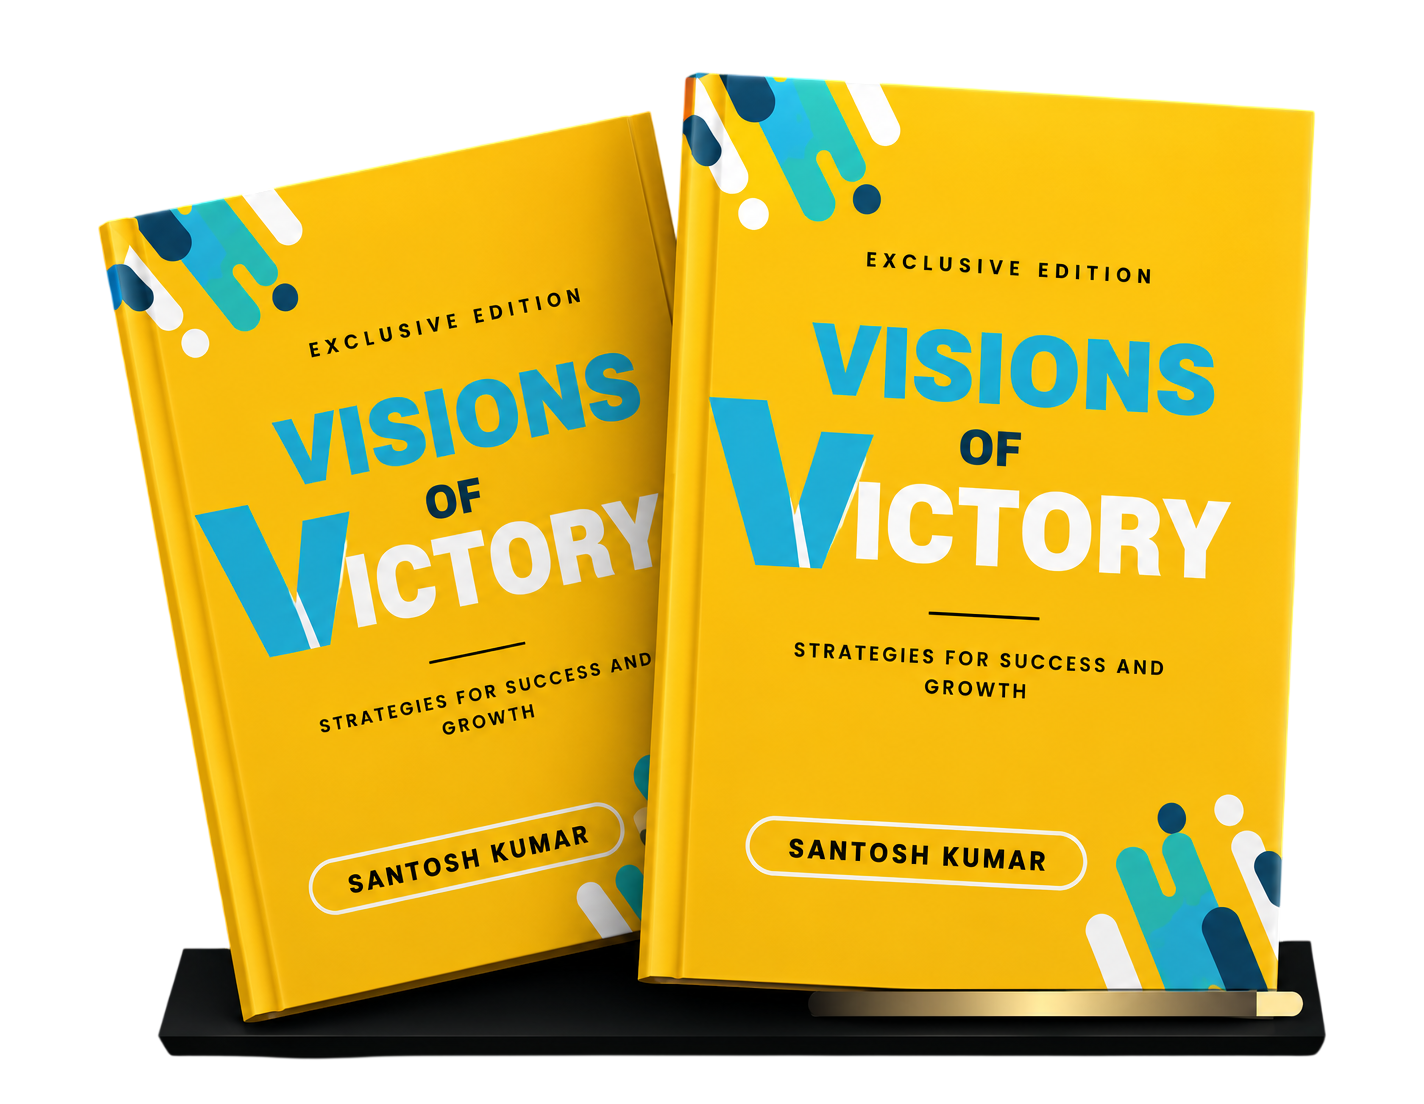
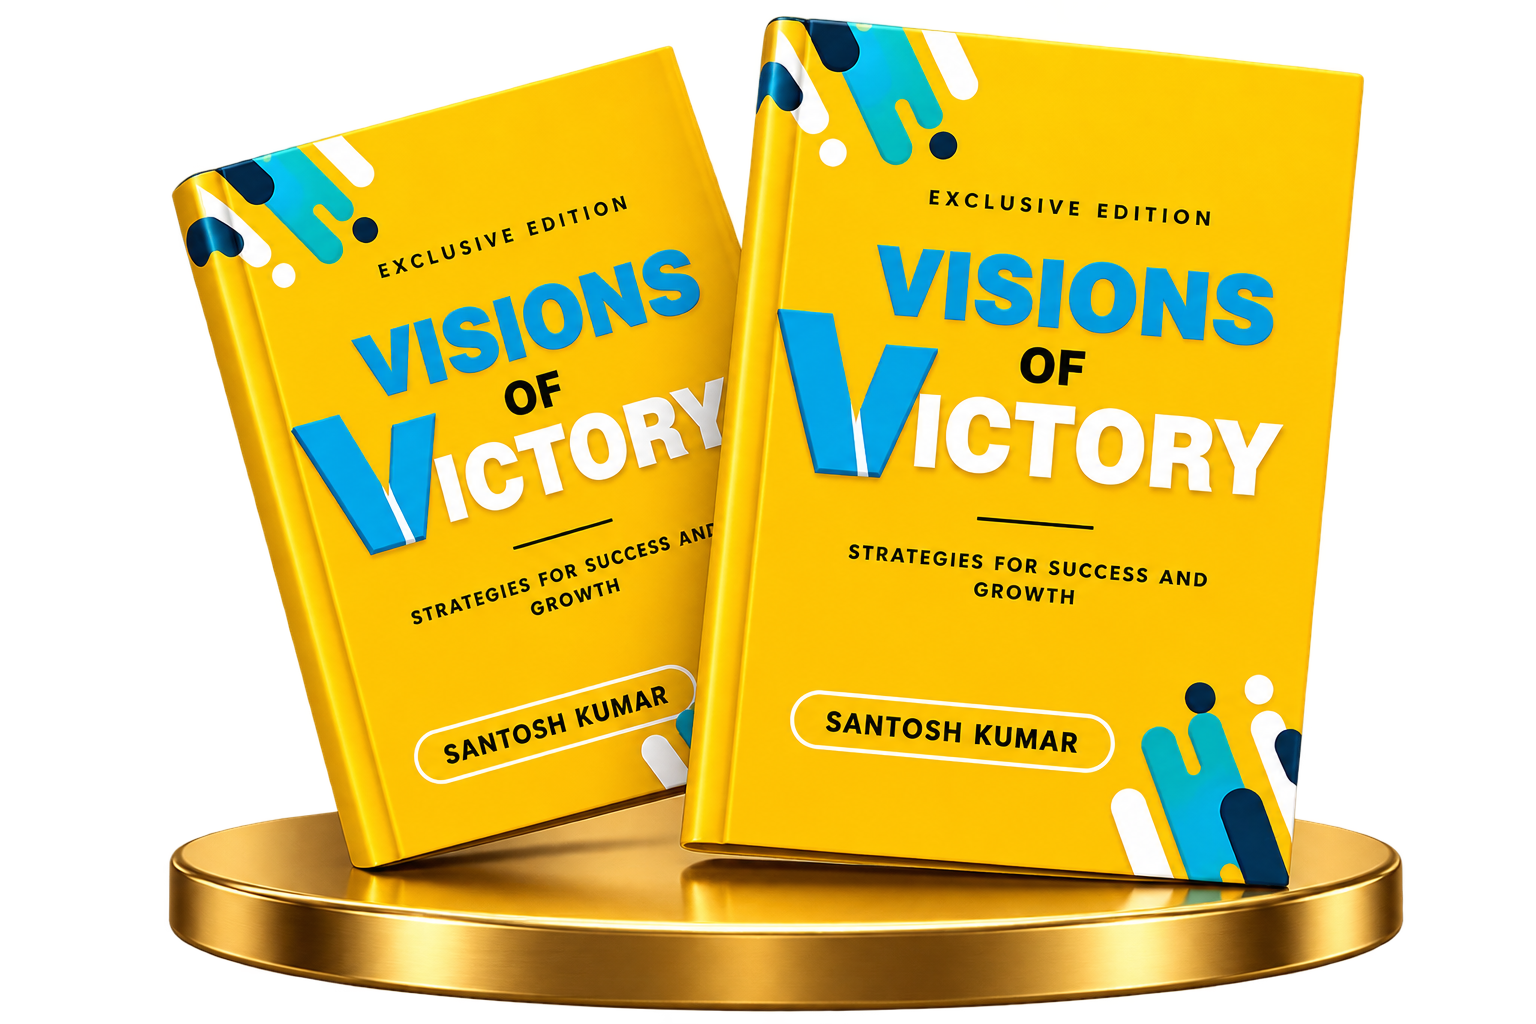
changing Hero section new images

diff --git a/components/Hero.tsx b/components/Hero.tsx
@@ -229,33 +229,35 @@ export default function Hero() {
           </div>
 
           {/* Slide Numbers / Indicator */}
-          <div className="pt-4 sm:pt-8 flex items-center gap-3 font-display">
-            <span className="text-[#f2eee3] text-lg sm:text-2xl font-bold tracking-wider">
+          <div className="pt-10 sm:pt-14 lg:pt-16 flex items-center gap-3 font-display relative z-20">
+            <span className="dark:text-[#f2eee3] text-[#18181b] text-lg sm:text-2xl font-bold tracking-wider transition-colors duration-300">
               {String(currentSlide + 1).padStart(2, "0")}
             </span>
-            <div className="w-12 sm:w-16 h-[2px] bg-[#d4b56a]/60 relative overflow-hidden">
+            <div className="w-12 sm:w-16 h-[2px] dark:bg-[#d4b56a]/40 bg-[#9333ea]/20 relative overflow-hidden rounded-full">
               <div
-                className="absolute inset-0 bg-[#d4b56a] transition-all duration-700"
+                className="absolute inset-0 dark:bg-[#d4b56a] bg-[#9333ea] transition-all duration-700"
                 style={{ width: `${((currentSlide + 1) / totalSlides) * 100}%` }}
               />
             </div>
-            <span className="text-[#9a9b94] text-base sm:text-xl">{String(totalSlides).padStart(2, "0")}</span>
+            <span className="dark:text-[#9a9b94] text-[#71717a] text-base sm:text-xl font-medium transition-colors duration-300">
+              {String(totalSlides).padStart(2, "0")}
+            </span>
           </div>
         </div>
 
         {/* ========================================================= */}
         {/* RIGHT 3D VISUAL AREA: Buttery Smooth Crossfade Stack */}
         {/* ========================================================= */}
-        <div className="w-full lg:w-[52%] relative flex items-center justify-center min-h-[300px] sm:min-h-[420px] lg:min-h-[500px]">
+        <div className="w-full lg:w-[52%] relative flex items-center justify-center min-h-[320px] sm:min-h-[420px] lg:min-h-[490px]">
           
-          <div className="relative w-full max-w-[480px] sm:max-w-[520px] lg:max-w-[560px] h-[280px] sm:h-[420px] lg:h-[480px] flex items-center justify-center">
+          <div className="relative w-full max-w-[480px] sm:max-w-[540px] lg:max-w-[600px] h-[300px] sm:h-[420px] lg:h-[480px] flex items-center justify-center">
             
             {/* Ambient Lighting (Dark Mode Only) */}
-            <div className="absolute inset-0 bg-[radial-gradient(circle_at_50%_48%,rgba(212,181,106,0.18),rgba(20,70,45,0.22)_42%,transparent_70%)] pointer-events-none blur-2xl dark:block hidden" />
-            <div className="absolute -bottom-4 w-4/5 h-16 bg-black/90 blur-2xl rounded-full pointer-events-none dark:block hidden" />
+            <div className="absolute inset-0 bg-[radial-gradient(circle_at_50%_50%,rgba(212,181,106,0.18),rgba(20,70,45,0.22)_45%,transparent_70%)] pointer-events-none blur-3xl dark:block hidden" />
+            <div className="absolute -bottom-5 w-4/5 h-16 bg-black/90 blur-2xl rounded-full pointer-events-none dark:block hidden" />
             
             {/* Soft Lilac Pedestal Glow (Light Mode Only) */}
-            <div className="absolute -bottom-2 w-3/4 h-12 bg-purple-400/15 blur-xl rounded-full pointer-events-none dark:hidden block" />
+            <div className="absolute -bottom-3 w-4/5 h-14 bg-purple-400/18 blur-2xl rounded-full pointer-events-none dark:hidden block" />
 
             {/* SLIDE 1 VISUAL: 3D Yellow Edition */}
             <div
@@ -273,12 +275,17 @@ export default function Hero() {
                 <img
                   src="/images/hero_section2.png"
                   alt="Visions to Victory - Hero Books"
-                  className="w-full h-full max-h-[280px] sm:max-h-[420px] lg:max-h-[490px] object-contain dark:drop-shadow-[0_25px_50px_rgba(0,0,0,0.95)] drop-shadow-[0_12px_24px_rgba(147,51,234,0.14)] transform scale-100 hover:scale-105 transition-transform duration-700"
+                  className="w-full h-full max-h-[300px] sm:max-h-[420px] lg:max-h-[480px] object-contain drop-shadow-[0_25px_50px_rgba(0,0,0,0.95)] transform scale-100 sm:scale-105 lg:scale-108 hover:scale-[1.12] transition-transform duration-700 dark:block hidden"
+                />
+                <img
+                  src="/images/hero44.png"
+                  alt="Visions to Victory - Hero Books Light"
+                  className="w-full h-full max-h-[300px] sm:max-h-[420px] lg:max-h-[480px] object-contain drop-shadow-[0_14px_28px_rgba(147,51,234,0.16)] transform scale-100 sm:scale-105 lg:scale-108 hover:scale-[1.12] transition-transform duration-700 dark:hidden block"
                 />
               </div>
             </div>
 
-            {/* SLIDE 2 VISUAL: 3D Green Edition */}
+            {/* SLIDE 2 VISUAL: 3D Green Edition (Dark) / hero_section2.png (Light) */}
             <div
               style={{
                 transition: "opacity 1400ms cubic-bezier(0.16, 1, 0.3, 1), transform 1400ms cubic-bezier(0.16, 1, 0.3, 1), filter 1400ms cubic-bezier(0.16, 1, 0.3, 1)",
@@ -294,7 +301,12 @@ export default function Hero() {
                 <img
                   src="/images/hero4.png"
                   alt="Visions to Victory - Green Edition"
-                  className="w-full h-full max-h-[280px] sm:max-h-[420px] lg:max-h-[490px] object-contain dark:drop-shadow-[0_25px_50px_rgba(0,0,0,0.95)] drop-shadow-[0_12px_24px_rgba(147,51,234,0.14)] transform scale-100 hover:scale-105 transition-transform duration-700"
+                  className="w-full h-full max-h-[300px] sm:max-h-[420px] lg:max-h-[480px] object-contain drop-shadow-[0_25px_50px_rgba(0,0,0,0.95)] transform scale-100 sm:scale-105 lg:scale-108 hover:scale-[1.12] transition-transform duration-700 dark:block hidden"
+                />
+                <img
+                  src="/images/hero_section2.png"
+                  alt="Visions to Victory - Light Edition"
+                  className="w-full h-full max-h-[300px] sm:max-h-[420px] lg:max-h-[480px] object-contain drop-shadow-[0_14px_28px_rgba(147,51,234,0.16)] transform scale-100 sm:scale-105 lg:scale-108 hover:scale-[1.12] transition-transform duration-700 dark:hidden block"
                 />
               </div>
             </div>
@@ -315,7 +327,7 @@ export default function Hero() {
                 <img
                   src="/images/hero5.png"
                   alt="Visions to Victory - Collector's Edition"
-                  className="w-full h-full max-h-[280px] sm:max-h-[420px] lg:max-h-[490px] object-contain dark:drop-shadow-[0_25px_50px_rgba(0,0,0,0.95)] drop-shadow-[0_12px_24px_rgba(147,51,234,0.14)] transform scale-100 hover:scale-105 transition-transform duration-700"
+                  className="w-full h-full max-h-[300px] sm:max-h-[420px] lg:max-h-[480px] object-contain dark:drop-shadow-[0_25px_50px_rgba(0,0,0,0.95)] drop-shadow-[0_14px_28px_rgba(147,51,234,0.16)] transform scale-100 sm:scale-105 lg:scale-108 hover:scale-[1.12] transition-transform duration-700"
                 />
               </div>
             </div>
@@ -323,7 +335,7 @@ export default function Hero() {
           </div>
 
           {/* Carousel Next / Prev Controls */}
-          <div className="absolute bottom-0 sm:bottom-2 right-0 flex items-center gap-2 z-30">
+          <div className="absolute bottom-0 right-0 flex items-center gap-2 z-30">
             <button
               onClick={handlePrev}
               className="w-9 h-9 sm:w-10 sm:h-10 border dark:border-[#f2eee3]/20 border-[#e9e1f5] dark:hover:border-[#d4b56a] hover:border-[#9333ea] dark:bg-[#050807]/90 bg-white dark:hover:bg-[#0d2a1d] hover:bg-[#faf5ff] dark:text-[#f2eee3] text-[#9333ea] flex items-center justify-center transition-all duration-300 shadow-sm hover:-translate-x-0.5 rounded-sm"
